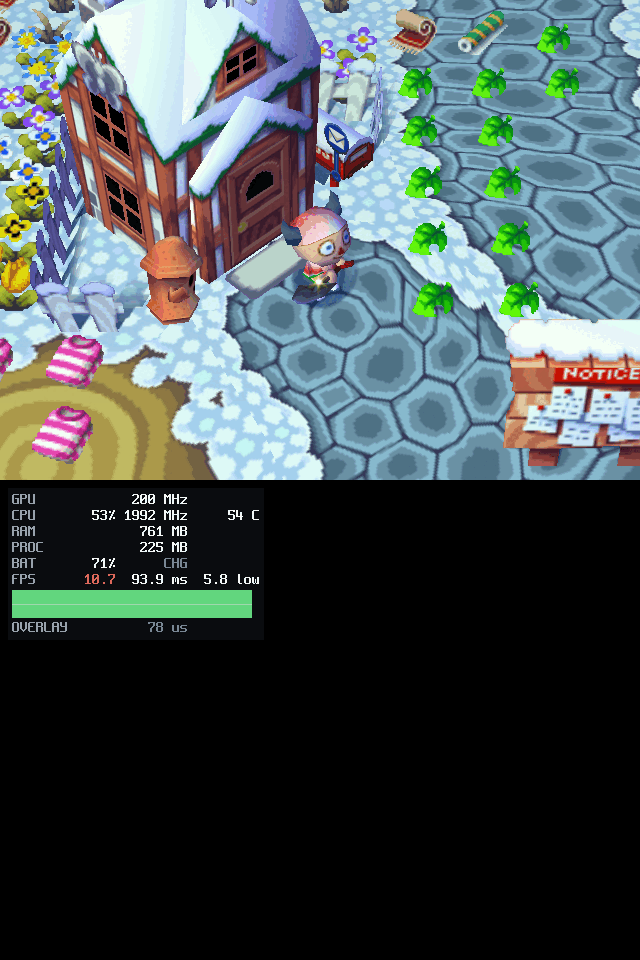
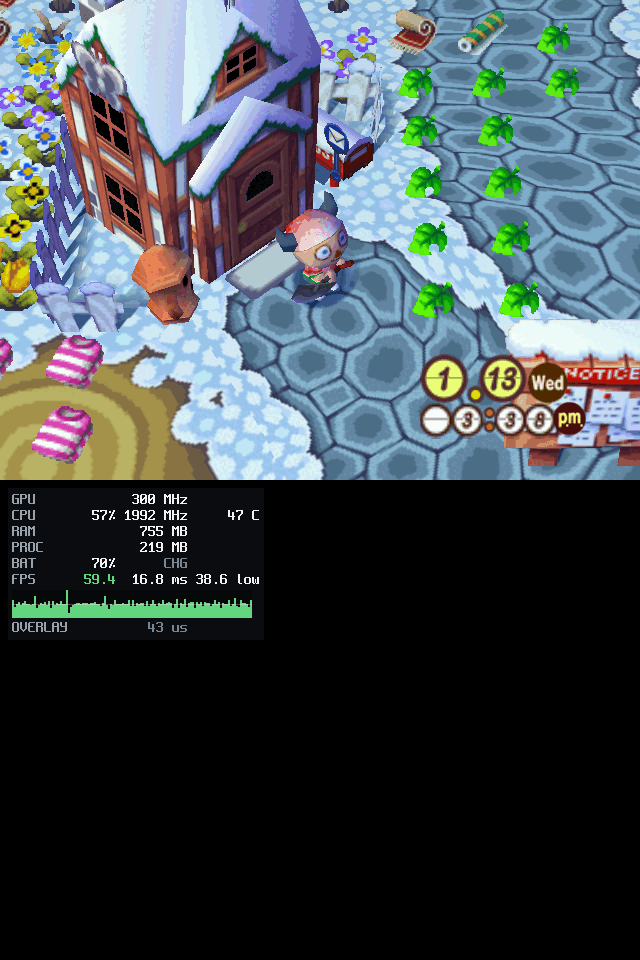
docs: show Nookery on the second screen

diff --git a/README.md b/README.md
@@ -29,7 +29,7 @@ Settings menu and performance overlay for Linux ports on ARM handhelds
 - Each frame is a single draw call, with no allocations. Stats are read once a
   second on a background thread.
 
-<p align="center"><img src="docs/images/overlay-second-screen.png" alt="Game on the top screen and the overlay on the lower screen of an RG DS" width="320"></p>
+<p align="center"><img src="docs/images/overlay-second-screen.png" alt="Nookery on the top screen of an RG DS and the overlay on the lower screen" width="320"></p>
 
 ## Usage
 
